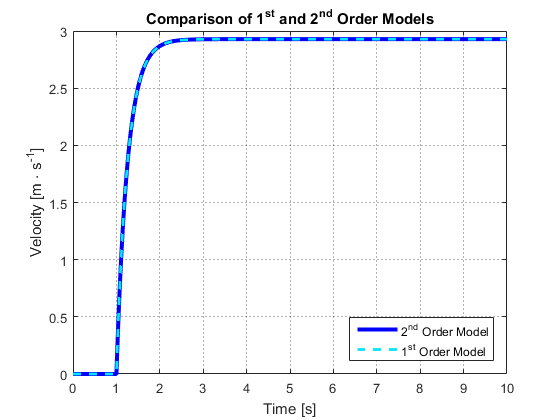
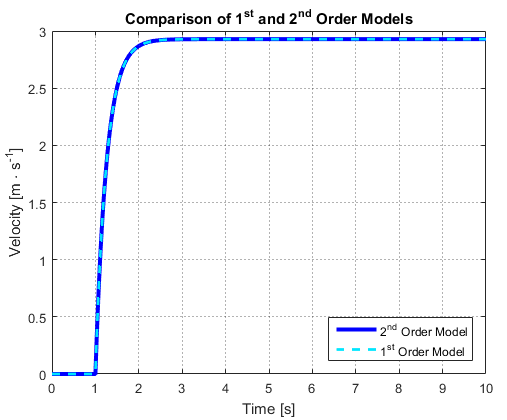
Some stuff and also some other stuff:D

diff --git a/Chapters/Chapter3/fSimulationAndSimplifiedModel.tex b/Chapters/Chapter3/fSimulationAndSimplifiedModel.tex
@@ -26,13 +26,38 @@ To verify that this is a viable approximation, the following simplified model, i
 %
 Where \si{K} is the gain of the system and \si{\tau} is the time constant. This simplified first order model of the system is simulated alongside the second order model, to verify that the vehicle can indeed be handled as a first order system. The plot of the two simulations are illustrated in \figref{fig:ComparisonOf1stAnd2ndOrderModels}.
 %
+From this figure it is impossible to see any difference between the two models, however, zooming in on the base of the step, see \figref{fig:comparison1stAnd2ndOrderModelsZoom}, the difference becomes clear.
+%
+\begin{minipage}{\linewidth}
+  	\centering
+  	\begin{minipage}{0.45\linewidth}
+  		\begin{figure}[H]
+  			\centering
+  			\includegraphics[scale = .6]{figures/ComparisonOf1stAnd2ndOrderModels.png}
+  			\caption{Comparison of the \si{1^{st}} and \si{2^{nd}} order models}
+  			\label{fig:ComparisonOf1stAnd2ndOrderModels}
+  		\end{figure}
+  	\end{minipage}
+  	\hspace{0.03\linewidth}
+  	\begin{minipage}{0.45\linewidth}
+  	  \begin{figure}[H]
+    	 	\centering
+    	 	\includegraphics[scale = .6]{figures/comparison1stAnd2ndOrderModelsZoom.png}
+    	 	\caption{Comparison of the \si{1^{st}} and \si{2^{nd}} order models}
+    	 	\label{fig:comparison1stAnd2ndOrderModelsZoom}
+    	\end{figure}
+  	\end{minipage}
+  \end{minipage}
+
+However, a quick glance at the axes shows how minimal the impact of this difference must be. An other and possibly clearer way to show the difference of the two models, is through use of Bode plots. A Bode plot of the two models imposed on one another is seen on \figref{bodePlotOf1stAnd2ndOrderModel}.
+%
 \begin{figure}[H]
 	\centering
-	\includegraphics[width = .8\textwidth]{figures/ComparisonOf1stAnd2ndOrderModels.png}
-	\caption{Comparison of the \si{1^{st}} and \si{2^{nd}} order models}
-	\label{fig:ComparisonOf1stAnd2ndOrderModels}
+	\includegraphics[width = \textwidth]{figures/bodePlotOf1stAnd2ndOrderModel.png}
+	\caption{Bode plot showing the differences between the \si{1^{st}} and \si{2^{nd}} order models}
+	\label{fig:bodePlotOf1stAnd2ndOrderModel}
 \end{figure}
 %
-\todo{Change picture}
+For frequencies below 1000 \si{rad\cdot s^{-1}} the two models are very similar because each of their first poles are very close; in 3,8759 \si{rad\cdot s^{-1}} for the \si{1^{st}} order model and 3,9 \si{rad\cdot s^{-1}} for the \si{2^{nd}} order model. The \si{2^{nd}} order model however has an other pole which causes the phase shift and shift in magnitude at higher frequencies. However since this pole is so high, 1489,5 \si{rad\cdot s^{-1}}, it does not affect the lower pole considerably and the differences are way beyond significant frequency range.
 
 In the following section the simplified model is verified directly by comparison with recorded data of the vehicle's step response.

diff --git a/Chapters/Chapter4/Hbridge.tex b/Chapters/Chapter4/Hbridge.tex
@@ -58,9 +58,8 @@ In this mode of operation the PWM signal is imposed on all 4 FETs, as seen on \f
   	\end{minipage}
   \end{minipage}
 
-
 \subsection{Brake Mode}
-This mode of operation imposes the PWM signal on one side of the H-bridge, as seen on \figref{HbridgeClockwiseBrakeON} and \figref{HbridgeClockwiseBrakeOFF}. The PWM signal in collaboration with the NOT-gate shifts between Q1 and Q2, which provides the two current paths as shown. On \figref{HbridgeClockwiseBrakeON} the motor is driven by the supply, connected through Q1 and Q4. On \figref{HbridgeClockwiseBrakeOFF} the motor is short-circuited to ground through Q2 and Q4, which brakes on the motor.
+This mode of operation imposes the PWM signal on one side of the H-bridge, as seen on \figref{HbridgeClockwiseBrakeON} and \figref{HbridgeClockwiseBrakeOFF}. The PWM signal in collaboration with the NOT-gate shifts between Q1 and Q2, which provides the two current paths as shown. On \figref{HbridgeClockwiseBrakeON} the motor is driven by the supply, connected through Q1 and Q4. On \figref{HbridgeClockwiseBrakeOFF} the motor is short-circuited to ground through Q2 and Q4, which brakes on the motor. In this example the configuration brakes to ground, however the principal is the same when braking to to Vcc.
 
   \begin{minipage}{\linewidth}
   	\centering
@@ -84,7 +83,7 @@ This mode of operation imposes the PWM signal on one side of the H-bridge, as se
   \end{minipage}
 
 \subsection{Double H-bridge Brake Mode}
-Implemented on the vehicle is a double H-bridge, which is configured to run in brake mode as illustrated on \figref{DoubleHbridgeBrakeON} and \figref{DoubleHbridgeBrakeOFF}
+Implemented on the vehicle is a double H-bridge, which is configured to run in brake mode as illustrated on \figref{DoubleHbridgeBrakeON} and \figref{DoubleHbridgeBrakeOFF}.
 
 \begin{figure}[H]
 	\centering
@@ -100,3 +99,4 @@ Implemented on the vehicle is a double H-bridge, which is configured to run in b
 	\label{DoubleHbridgeBrakeOFF}
 \end{figure}
 
+Specification for one H-bridge - argumentation for choosing to run with both.
